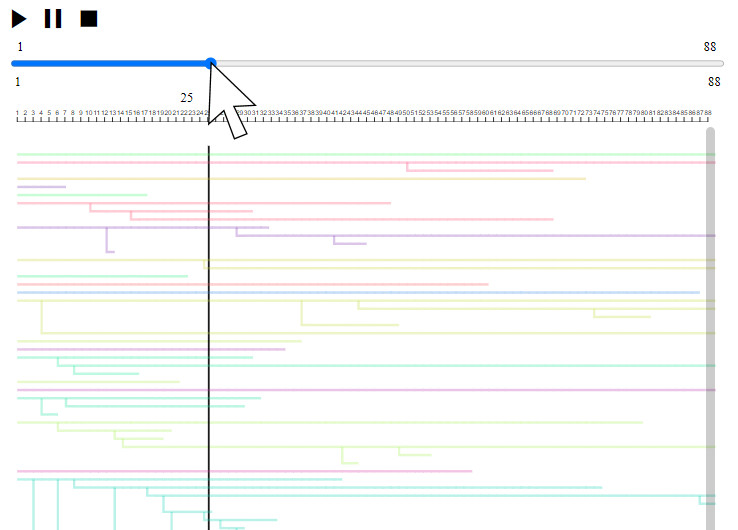
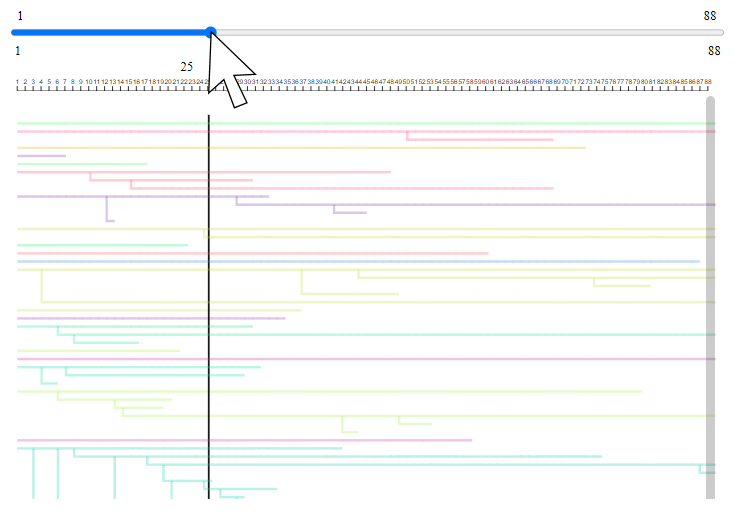
Further updates

Changed region(s): [[0.0, 0.0, 0.9973, 1.0], [0.0312, 0.9412, 0.0623, 1.0]]

diff --git a/pages/sysmodule/sm_lineage.md b/pages/sysmodule/sm_lineage.md
@@ -13,6 +13,12 @@ summary: This page describes how to use the Lineage view of CellTrackVis.
 
 * Trajectories dis/appear by moving the time bar.
 
+## Animation
+
+{% include image.html file="lin_animation.png" caption="The example of animation play" max-width="400" %}
+
+* Trajectories, time bar, and image sequences can be played using buttons.
+
 ## Lineage selection
 {% include image.html file="lin_selection.png" caption="The example of lineage selection" max-width="600" %}
 
